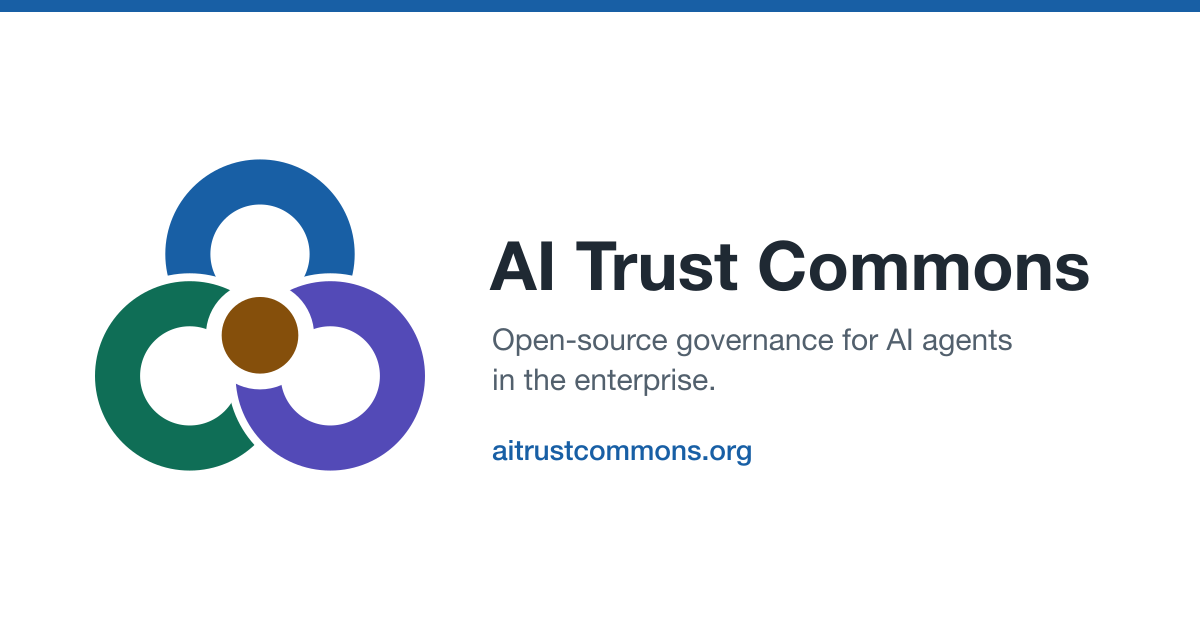
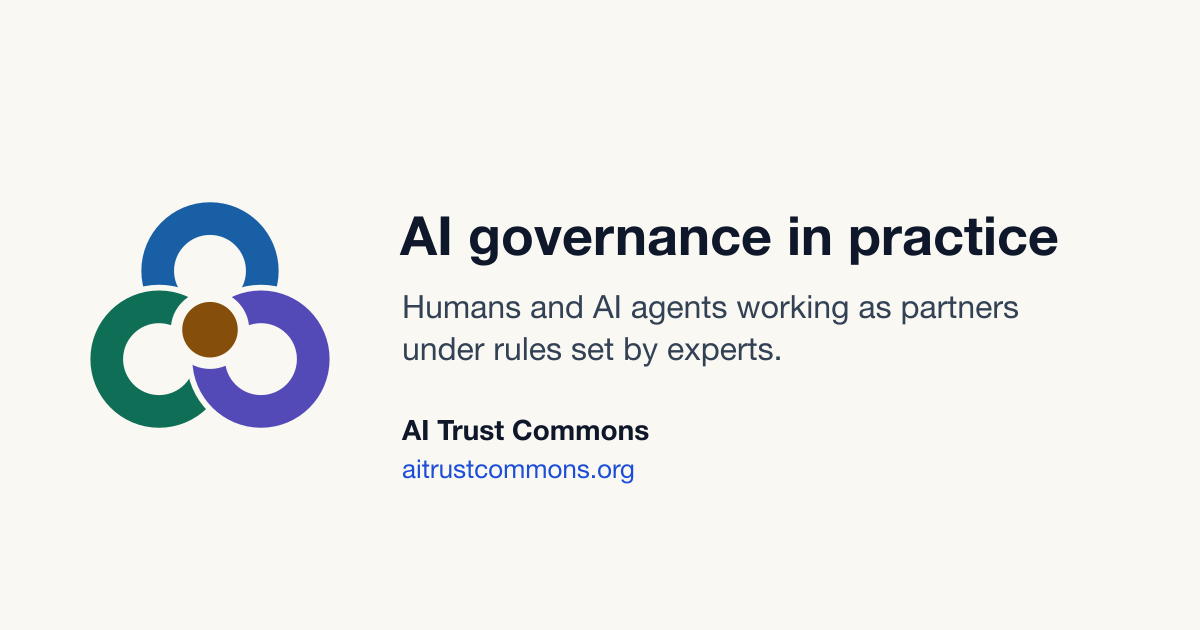
Rebuild: fixes from the breaker pass
An independent breaker pass found 2 blockers, 12 should-fix and 18
nits. This commit fixes everything that lives in the site repo. The
GitHub org's own "open source" wording is outside the repo and waits
for Nikhil.

- Removes the AI credit lines from home.json and brand/README.md.
- The old link-preview card's address now serves the new card, so no
  page or image says "open source".
- Steps keep the poster's order: steps 6 and 9 read cause before
  effect. The poster's key (gate lines, the four outcomes, the record,
  on the loop) is now text on the home page, and the steps have a
  heading of their own.
- Layout: the contents list stops floating once it wraps, long links
  wrap, diagrams scroll sideways at a readable size on phones, and
  lists of links have bigger tap targets.
- The Discovering Intent hero gets real alt text from post-extras. The
  post file is unchanged.
- The production guard also refuses blank piece text, and refuses the
  overview and About page until Nikhil marks them reviewed.
- Read times count visible words. GA4 loads only on aitrustcommons.org.
  The 404 page has no canonical. The footer links CC BY 4.0. The About
  description matches the new page. The root CNAME is gone, since
  public/CNAME is the one that ships.
- CLAUDE.md spells out go-live (run the workflow by hand after the
  source switch, then check the custom domain) and rollback (disable
  the workflow first).
- verify.mjs now also checks the poster's key, step order, open-source
[…]

Changed region(s): [[0.0617, 0.2413, 0.925, 0.7841], [0.0, 0.0, 1.0, 0.0302]]

diff --git a/src/styles/global.css b/src/styles/global.css
@@ -242,3 +242,39 @@ h1, h2, h3 { font-family: var(--display); color: var(--ink); text-wrap: balance;
   .step-lead, .piece-line { font-size: 18px; }
   .doc { padding-top: 40px; }
 }
+
+/* Breaker pass fixes (Nov 24) */
+.key-title { margin: 22px 0 10px; font-size: 18px; }
+.key { margin: 0 0 10px; padding-left: 22px; font-size: 16px; }
+.key li { margin-bottom: 4px; }
+.key-outcomes { list-style: none; padding-left: 0; display: flex; flex-direction: column; gap: 6px; }
+.key-outcomes li { display: flex; gap: 10px; align-items: flex-start; }
+.key-outcomes .outcome-icon { margin-top: 3px; flex: none; }
+.gate-pass-word { color: var(--pass); }
+.gate-approval-word { color: #c2410c; }
+.gate-block-word { color: #b91c1c; }
+.gate-feedback-word { color: var(--gold-text); }
+.key-extra { font-size: 16px; }
+.doc-section > .key-extra { margin: 0 0 8px; }
+
+/* Long links and code never push the page sideways */
+.prose { overflow-wrap: break-word; }
+.prose a { word-break: break-word; }
+
+/* Diagrams keep their natural size and scroll sideways on narrow screens */
+.prose pre.mermaid { overflow-x: auto; }
+.prose pre.mermaid svg { max-width: none !important; }
+
+/* Bigger tap targets in lists of links */
+.contents a { padding: 4px 0; }
+.site-footer nav a { padding: 10px 0; }
+.latest-links a { padding: 10px 0; }
+.post-row h2 a { display: inline-block; padding: 2px 0; }
+
+/* The contents list stops floating once it wraps above the text */
+@media (max-width: 900px) {
+  .contents { position: static; max-width: none; }
+}
+@media (max-width: 700px) {
+  .prose pre.mermaid svg { min-width: 600px; }
+}

diff --git a/src/lib/posts.ts b/src/lib/posts.ts
@@ -23,12 +23,13 @@ export function displayDate(p: Post) {
 
 // Words divided by 230, rounded up. The same rule is used on the home page.
 export function readMinutes(text: string) {
-  const words = text.trim().split(/\s+/).filter(Boolean).length;
+  const visible = text.replace(/```[\s\S]*?```/g, ' ').replace(/\]\([^)]*\)/g, ']').replace(/https?:\/\/\S+/g, ' ');
+  const words = visible.trim().split(/\s+/).filter(Boolean).length;
   return Math.max(1, Math.ceil(words / 230));
 }
 
 export function extrasFor(p: Post) {
-  return (extras as Record<string, { part: number | null; medium: string | null; next: string | null }>)[p.data.slug];
+  return (extras as Record<string, { part: number | null; medium: string | null; next: string | null; heroAlt?: string }>)[p.data.slug];
 }
 
 export function isSeries(p: Post) {

diff --git a/CLAUDE.md b/CLAUDE.md
@@ -44,9 +44,24 @@ node scripts/verify.mjs --screens   # also save 390-wide phone screenshots to .p
 
 ## Going live
 
-Nikhil gives the go. Then:
-1. Merge into main.
-2. Switch the repo's Pages source to "GitHub Actions" (it was the gh-pages branch).
-3. Run verify against https://aitrustcommons.org.
+Only on Nikhil's go. Before it:
+- the five pieces have text in pieces.json
+- `reviewed` is true in home.json and in about.astro
 
-Rollback: point the Pages source back at the gh-pages branch, which still holds the old MkDocs site.
+The production build refuses to run without them.
+
+1. Save the current Pages settings: `gh api repos/aitrustcommons/aitrustcommons.github.io/pages > /tmp/pages-before.json` (cname aitrustcommons.org, https_enforced true).
+2. Check that `src/content/posts/*.md` still matches `main:docs/blog/posts/*.md` byte for byte.
+3. Merge `rebuild` into main.
+4. Switch the Pages source to "GitHub Actions" (Settings, Pages).
+5. Run "Deploy to GitHub Pages" on main from the Actions tab (`gh workflow run deploy.yml --ref main`). Switching the source doesn't start a run on its own.
+6. When it's green, read the Pages settings again. cname must be aitrustcommons.org and https_enforced true. If cname is blank: `gh api -X PUT repos/aitrustcommons/aitrustcommons.github.io/pages -f cname=aitrustcommons.org`.
+7. Run `node scripts/verify.mjs https://aitrustcommons.org`. Check a link preview, then resubmit the sitemap in Search Console.
+
+## Rollback (for the first month)
+
+1. Disable the deploy workflow first (`gh workflow disable deploy.yml`), so a push to main can't put the new site back.
+2. Switch the Pages source back to "Deploy from a branch: gh-pages, root". That branch still holds the old MkDocs site and nothing rebuilds it.
+3. If no "pages build and deployment" run starts, run `gh api -X POST repos/aitrustcommons/aitrustcommons.github.io/pages/builds`.
+4. Check cname and HTTPS as in step 6 above.
+5. Don't push to gh-pages during the month.

diff --git a/brand/README.md b/brand/README.md
@@ -22,9 +22,10 @@ The gaps between rings and around the dot are cut-outs, not white paint. The mar
 - The site serves its copies from `docs/assets/brand/`:
   - `favicon-16.png`, `favicon-32.png`, `favicon-48.png`: browser-tab icons. `favicon-180.png`: the iPhone home-screen icon.
   - `aitc-avatar-white-400.png` (LinkedIn) and `aitc-avatar-white-500.png` (GitHub): the mark on white with room for round crops.
-  - `aitc-social-card-1200x630.png`: the default link-preview card.
+  - `aitc-card-2026-11.png`: the link-preview card since the Nov 2026 rebuild, made by `make_card.py` (served from `public/assets/brand/`).
+  - `aitc-social-card-1200x630.png`: the old card's address. Since the rebuild it holds the same image as the new card, so links shared before never show the old wording.
   - `aitc-header-logo.svg`: the logo in the site's blue header bar. The mark sits on a white circle so the blue ring stands out.
 
 ## How it was made
 
-ChatGPT drew the first rough versions from a short brief. Nikhil picked one. Claude redrew it as a vector and tuned the spacing and dot size so it reads at 16 pixels.
+Nikhil picked the design from rough sketches. `make_logo.py` redraws it as a vector, with the spacing and dot size tuned so it reads at 16 pixels.
